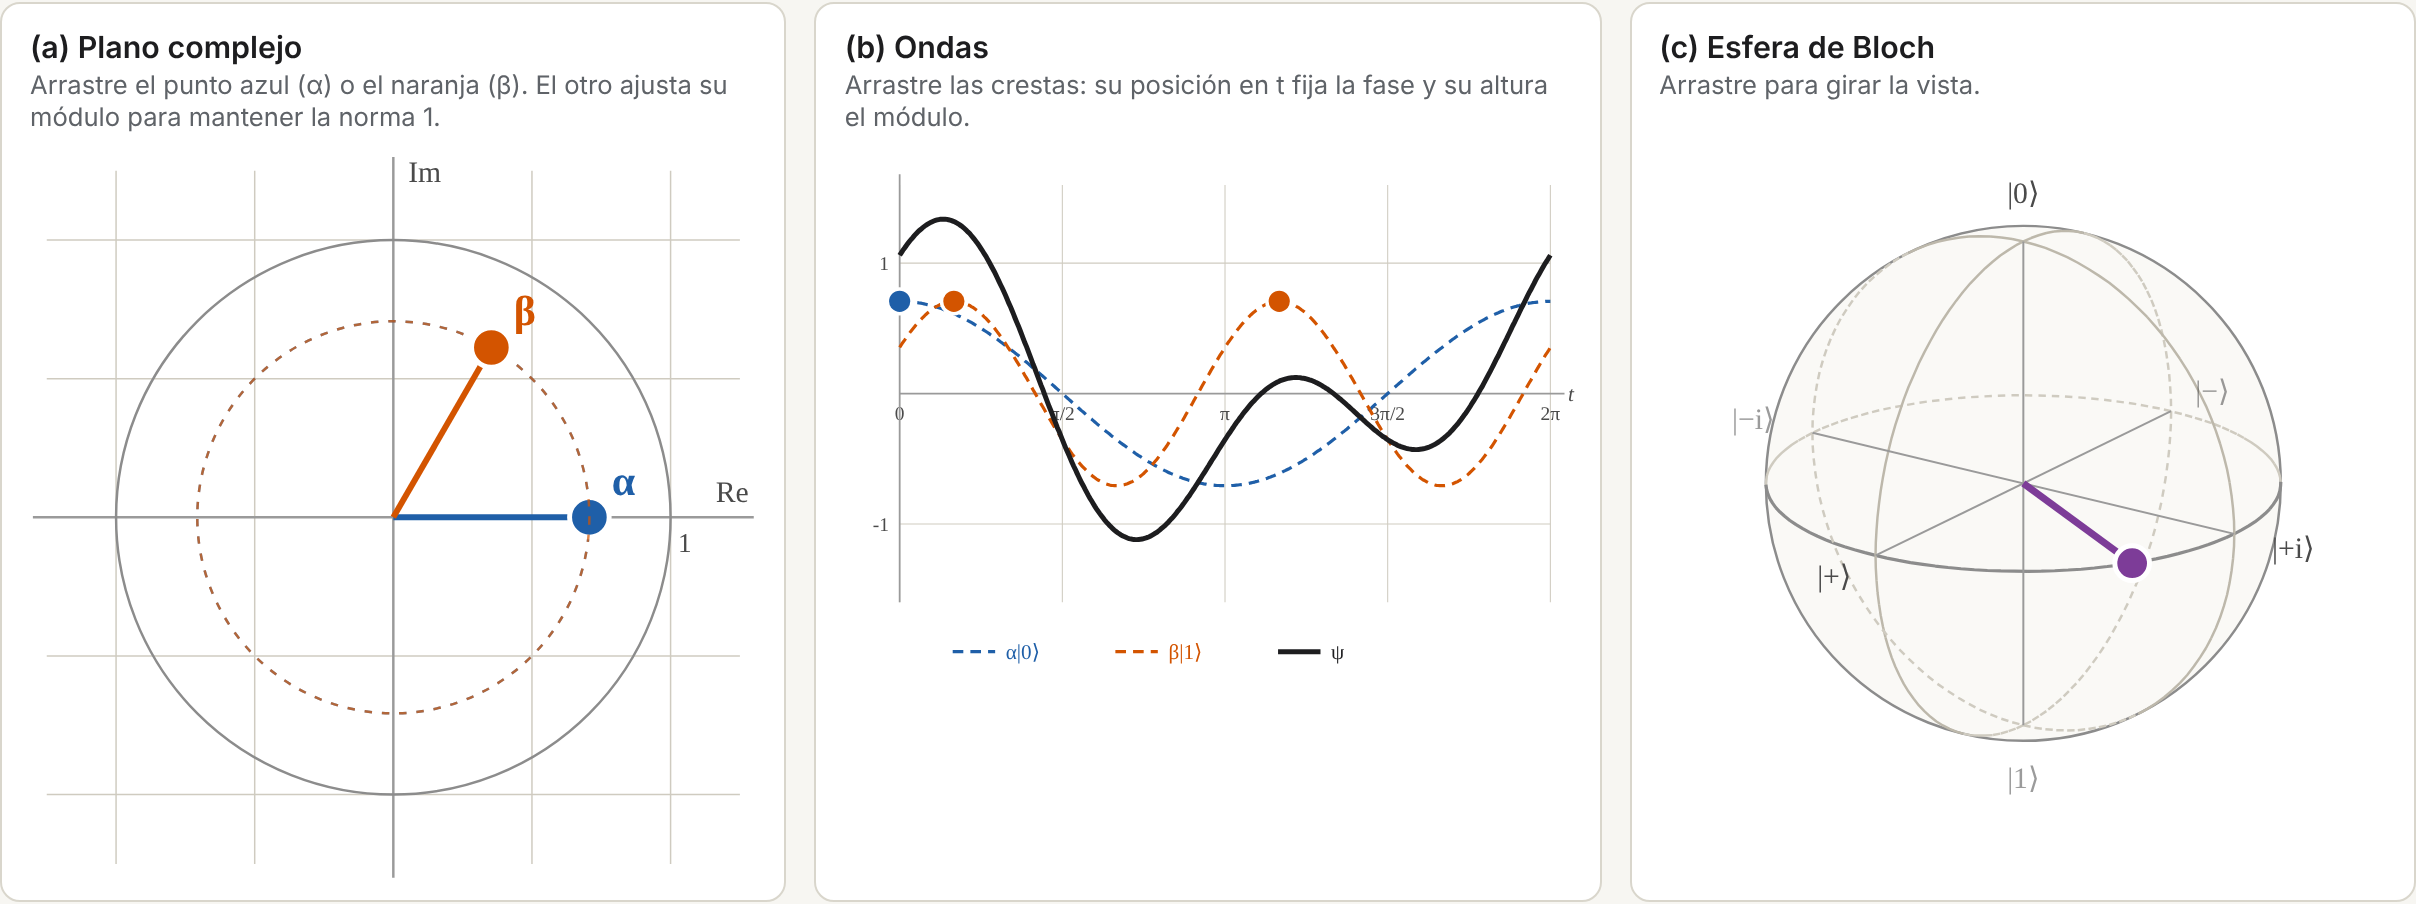
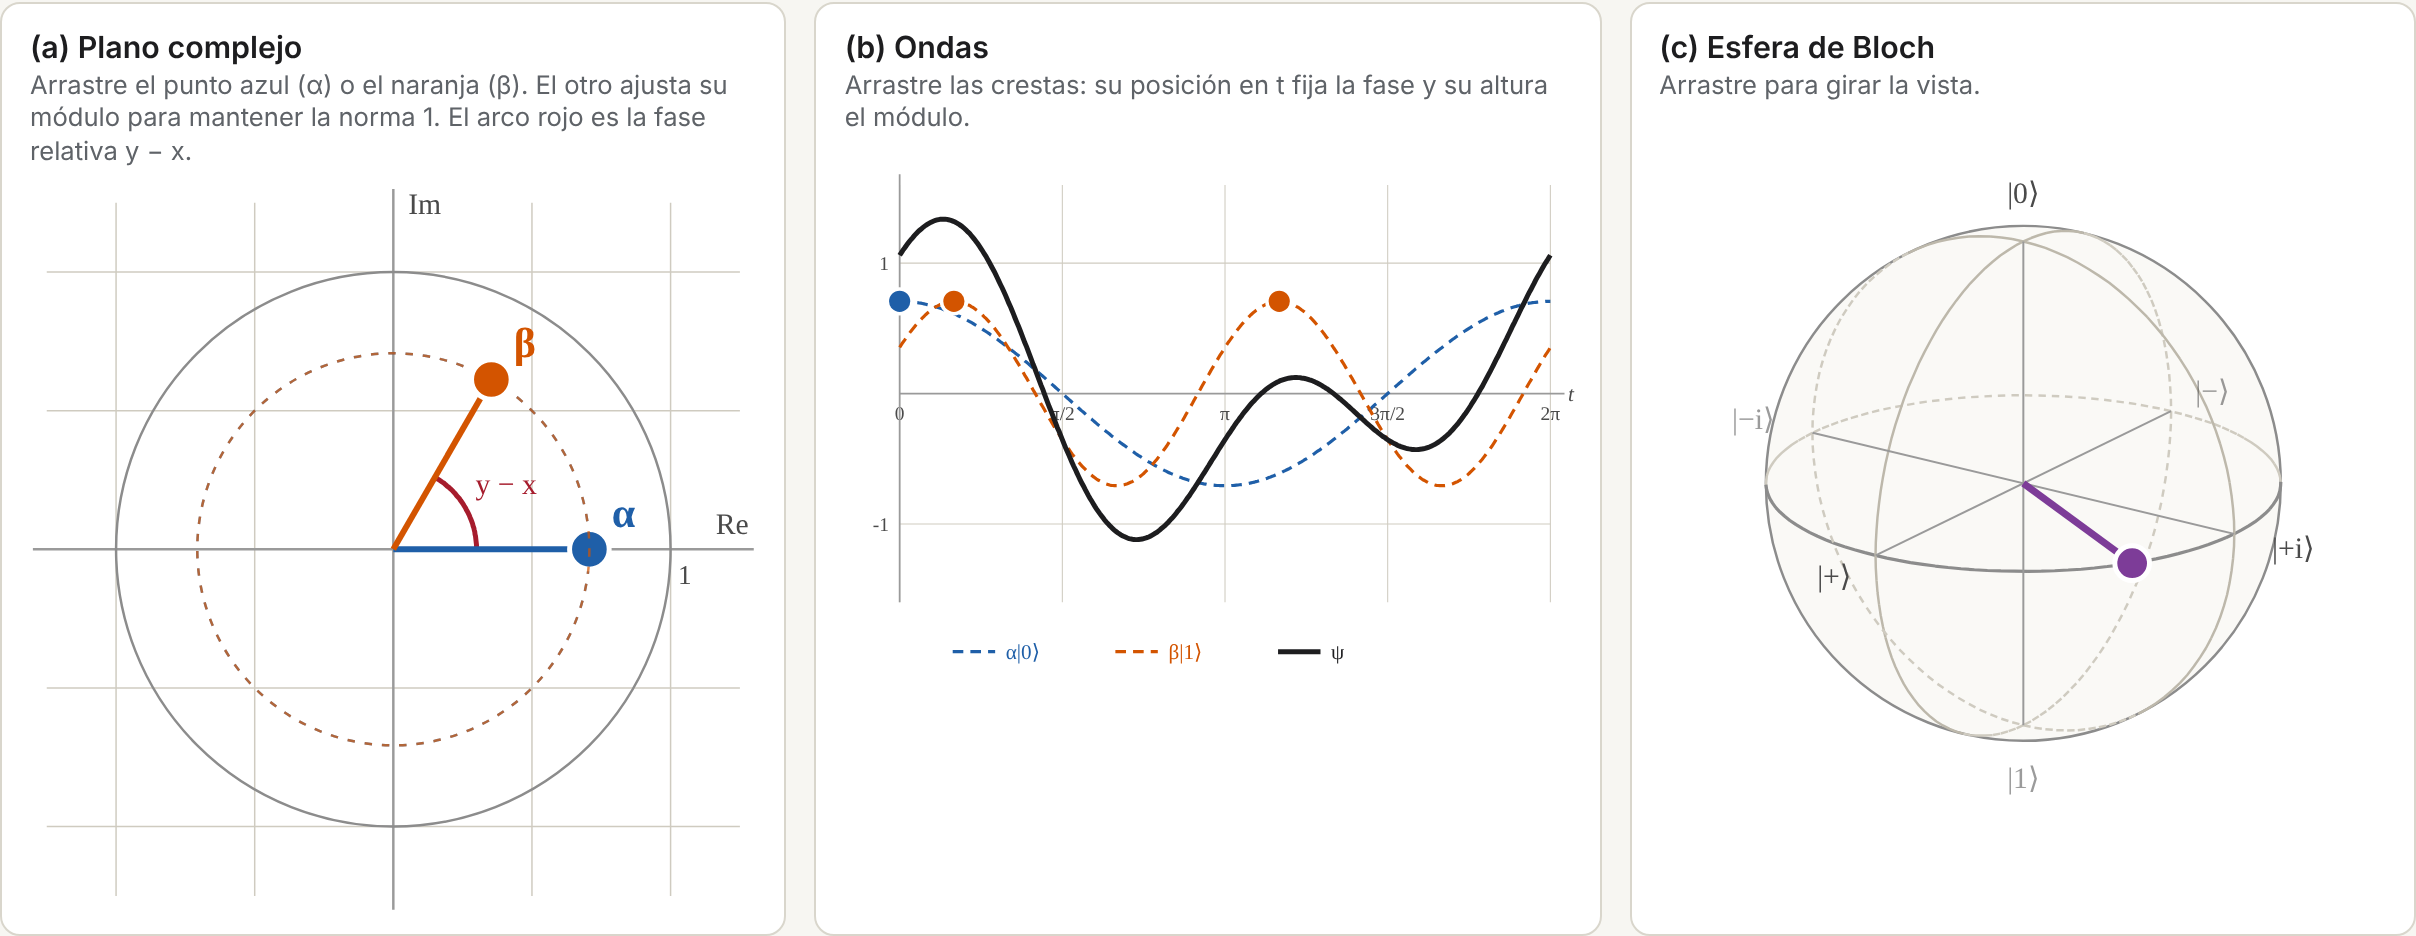
Actualizar widget y notebook a la notación A, x, B, y
- Coeficientes en forma polar alpha = A e^{ix}, beta = B e^{iy} (sin arg).
- Se quitan las integrales del paso (b)->(a); se usa la lectura de crestas.
- Explicación de fase global, fase relativa y de cos(theta/2) = A.
- Arco rojo con la fase relativa y - x en el panel (a).
- "Inclinación" en lugar de latitud/colatitud.
- Pruebas del notebook ajustadas a las nuevas fórmulas.

Claude-Session: https://claude.ai/code/session_01JyS3LXVzrQ5LC3wxCMvp1h

diff --git a/index.html b/index.html
@@ -68,7 +68,7 @@
     <button data-estado="+i">|+i⟩</button><button data-estado="-i">|−i⟩</button>
   </div>
   <div class="grupo">
-    <label for="gamma">Fase global γ = arg α:</label>
+    <label for="gamma">Fase global γ (gira α y β juntos; fija x = fase de α):</label>
     <input id="gamma" type="range" min="-180" max="180" step="1" value="0">
     <span id="gammaValor">0°</span>
   </div>
@@ -77,7 +77,7 @@
 <div class="paneles">
   <div class="panel">
     <h2>(a) Plano complejo</h2>
-    <p class="ayuda">Arrastre el punto azul (α) o el naranja (β). El otro ajusta su módulo para mantener la norma 1.</p>
+    <p class="ayuda">Arrastre el punto azul (α) o el naranja (β). El otro ajusta su módulo para mantener la norma 1. El arco rojo es la fase relativa y − x.</p>
     <svg id="svgA" viewBox="0 0 300 300" aria-label="Plano complejo con α y β"></svg>
   </div>
   <div class="panel">
@@ -97,47 +97,72 @@
 <section class="formulas">
   <h2>Fórmulas para pasar de un panel a otro</h2>
   <p>El desarrollo completo está en el taller; aquí se resumen las fórmulas que usa el widget.
-  En todas, $\alpha=|\alpha|e^{i\arg\alpha}$ y $\beta=|\beta|e^{i\arg\beta}$.</p>
+  El estado es $\ket\psi=\alpha\ket0+\beta\ket1$ con $|\alpha|^2+|\beta|^2=1$, y sus coeficientes
+  se escriben en forma polar con las mismas letras de la regla del enunciado:</p>
+  $$\alpha=Ae^{ix},\qquad \beta=Be^{iy},\qquad A,B\ge0,\qquad A^2+B^2=1 .$$
+  <p>$A$ y $B$ son los módulos (las probabilidades de medir $0$ y $1$ son $A^2$ y $B^2$), y $x$, $y$
+  son las fases.</p>
 
   <h3>(a) → (b): de los coeficientes a las ondas</h3>
-  <p>Por la regla de multiplicación, cada coeficiente desplaza y escala su onda:</p>
-  $$\alpha\ket0=|\alpha|\cos(t-\arg\alpha),\qquad \beta\ket1=|\beta|\cos(2t-\arg\beta),\qquad
-    \psi(t)=|\alpha|\cos(t-\arg\alpha)+|\beta|\cos(2t-\arg\beta).$$
-  <p>La cresta de $\alpha\ket0$ está en $t_\alpha=\arg\alpha$ y tiene altura $|\alpha|$; las de
-  $\beta\ket1$ están en $t_\beta=\tfrac12\arg\beta$ y en $t_\beta+\pi$, con altura $|\beta|$.</p>
+  <p>Se aplica la regla $(Ae^{ix})\cdot\cos nt=A\cos(nt-x)$ con $n=1$ y con $n=2$:</p>
+  $$\alpha\ket0=A\cos(t-x),\qquad \beta\ket1=B\cos(2t-y),\qquad
+    \psi(t)=A\cos(t-x)+B\cos(2t-y).$$
+  <p>El módulo es la altura de la onda y la fase indica cuánto se corre. La cresta de
+  $\alpha\ket0$ está en $t_\alpha\equiv x$, con altura $A$; las de $\beta\ket1$ están en
+  $t_\beta\equiv\tfrac y2$ y en $t_\beta+\pi$, con altura $B$ ($y$ se divide entre $2$ porque esa
+  onda oscila el doble de rápido).</p>
 
-  <h3>(b) → (a): de la onda a los coeficientes</h3>
-  <p>Los coeficientes son los productos hermíticos del punto 1.1 con $\ket0$ y $\ket1$:</p>
-  $$\alpha=\braket{0}{\psi}=\frac1\pi\int_0^{2\pi}\psi(t)\,e^{it}\,dt,\qquad
-    \beta=\braket{1}{\psi}=\frac1\pi\int_0^{2\pi}\psi(t)\,e^{2it}\,dt .$$
-  <p>Leídos en las crestas: $|\alpha|$ y $|\beta|$ son las alturas, $\arg\alpha=t_\alpha$ y
-  $\arg\beta=2t_\beta$.</p>
+  <h3>(b) → (a): de las ondas a los coeficientes</h3>
+  <p>Se leen las crestas, invirtiendo lo anterior:</p>
+  $$A=\text{altura de }\alpha\ket0,\quad x\equiv t_\alpha,\qquad
+    B=\text{altura de }\beta\ket1,\quad y\equiv 2t_\beta .$$
+
+  <h3>Fase global y fase relativa</h3>
+  <p>Multiplicar un número complejo por $e^{i\gamma}$ lo gira un ángulo $\gamma$ alrededor del
+  origen sin cambiar su módulo. Una <b>fase global</b> multiplica los dos coeficientes por el
+  mismo $e^{i\gamma}$: en el panel (a), $\alpha$ y $\beta$ giran juntos, como si estuvieran
+  pegados (pruébelo con el deslizador). $A$ y $B$ no cambian, y ninguna medición distingue
+  $\ket\psi$ de $e^{i\gamma}\ket\psi$, así que se consideran el mismo estado. Lo que se conserva al
+  girar los dos juntos es el ángulo entre ellos, la <b>fase relativa</b> $y-x$ (el arco rojo del
+  panel (a)); esa sí cambia el estado. Por ejemplo, $\ket+=\tfrac1{\sqrt2}(\ket0+\ket1)$ y
+  $\ket-=\tfrac1{\sqrt2}(\ket0-\ket1)$ tienen los mismos módulos, pero fases relativas $0$ y $\pi$,
+  y son ortogonales.</p>
 
   <h3>(a) → (c): de los coeficientes a la esfera</h3>
-  $$\cos\tfrac\theta2=|\alpha|,\quad \sin\tfrac\theta2=|\beta|,\quad \varphi=\arg\beta-\arg\alpha,$$
+  <p>Al sacar la fase global $e^{ix}$, el estado queda como $A\ket0+Be^{i(y-x)}\ket1$, y la
+  longitud en la esfera es la fase relativa, $\varphi\equiv y-x$. Para la inclinación $\theta$ (el
+  ángulo desde el polo norte): como $A^2+B^2=1$, el punto $(A,B)$ está en un cuarto de
+  circunferencia y se escribe $A=\cos\omega$, $B=\sin\omega$ con $\omega\in[0,\tfrac\pi2]$. En la
+  esfera, $\ket0$ (polo norte) y $\ket1$ (polo sur) están separados un ángulo $\pi$, el doble, así
+  que $\theta=2\omega$:</p>
+  $$\cos\tfrac\theta2=A,\qquad \sin\tfrac\theta2=B,\qquad \varphi\equiv y-x,$$
   $$\vec r=(\sin\theta\cos\varphi,\ \sin\theta\sin\varphi,\ \cos\theta)
-    =\bigl(2\operatorname{Re}(\overline\alpha\beta),\ 2\operatorname{Im}(\overline\alpha\beta),\ |\alpha|^2-|\beta|^2\bigr).$$
-  <p>Si $\alpha=0$ o $\beta=0$ el estado está en un polo y $\varphi$ no interviene.</p>
+    =\bigl(2\operatorname{Re}(\overline\alpha\beta),\ 2\operatorname{Im}(\overline\alpha\beta),\ A^2-B^2\bigr).$$
+  <p>La altura del punto, $\cos\theta=A^2-B^2$, es la probabilidad de $0$ menos la de $1$. Si
+  $A=0$ o $B=0$ el estado está en un polo y $\varphi$ no interviene.</p>
 
   <h3>(c) → (a): de la esfera a los coeficientes</h3>
   $$\alpha=e^{i\gamma}\cos\tfrac\theta2,\qquad \beta=e^{i(\gamma+\varphi)}\sin\tfrac\theta2,$$
-  <p>donde la fase global $\gamma$ es libre: la esfera no la registra.</p>
+  <p>es decir, $A=\cos\tfrac\theta2$, $x=\gamma$, $B=\sin\tfrac\theta2$, $y=\gamma+\varphi$, donde
+  la fase global $\gamma$ es libre: la esfera no la registra.</p>
 
-  <h3>(b) → (c): de la onda a la esfera</h3>
-  $$\cos\theta=|\alpha|^2-|\beta|^2=(\text{altura de }\alpha\ket0)^2-(\text{altura de }\beta\ket1)^2,
+  <h3>(b) → (c): de las ondas a la esfera</h3>
+  <p>Con $A$, $B$ como alturas, $x\equiv t_\alpha$ y $y\equiv 2t_\beta$:</p>
+  $$\cos\theta=(\text{altura de }\alpha\ket0)^2-(\text{altura de }\beta\ket1)^2,
     \qquad \varphi\equiv 2t_\beta-t_\alpha \pmod{2\pi}.$$
-  <p>La latitud mide cómo se reparte la norma entre las frecuencias $1$ y $2$; la longitud mide el
-  desfase entre las crestas, contado en la escala de la frecuencia $2$.</p>
+  <p>La inclinación depende solo de las alturas; la longitud mide el desfase entre las crestas,
+  contado en la escala de la frecuencia $2$.</p>
 
   <h3>(c) → (b): de la esfera a la onda</h3>
   $$\psi(t)=\cos\tfrac\theta2\,\cos(t-\gamma)+\sin\tfrac\theta2\,\cos(2t-\gamma-\varphi).$$
 
   <h3>Fase global y desplazamientos en el tiempo</h3>
-  <p>Multiplicar el estado por $e^{i\gamma}$ corre la onda $\alpha\ket0$ una distancia $\gamma$ y
-  la onda $\beta\ket1$ solo $\gamma/2$, de modo que $\psi$ cambia de forma, pero el punto de Bloch
-  no se mueve. En cambio, desplazar $\psi$ en el tiempo una cantidad $\tau$ multiplica $\alpha$ por
-  $e^{i\tau}$ y $\beta$ por $e^{2i\tau}$; esto suma $\tau$ a $\varphi$ y hace girar el punto de
-  Bloch alrededor del eje $z$.</p>
+  <p>Cambiar la fase global $\gamma$ corre la onda $\alpha\ket0$ una distancia $\gamma$ y la onda
+  $\beta\ket1$ solo $\gamma/2$, de modo que $\psi$ cambia de forma, pero el punto de Bloch no se
+  mueve. En cambio, desplazar $\psi$ en el tiempo una cantidad $\tau$ multiplica $\alpha$ por
+  $e^{i\tau}$ y $\beta$ por $e^{2i\tau}$ (no es una fase global, porque los factores son
+  distintos); la fase relativa pasa de $y-x$ a $y-x+\tau$ y el punto de Bloch gira alrededor del
+  eje $z$.</p>
 </section>
 
 <footer>
@@ -157,8 +182,8 @@ const S2 = Math.SQRT1_2;
 const COL = {a: "#1F5FA8", b: "#D35400", psi: "#1d1d1f", p: "#7D3C98",
              eje: "#9a9a9a", tenue: "#cfcbc0", texto: "#4a4a4a"};
 
-// El estado se guarda como módulos y fases por separado, para no perder la
-// fase de un coeficiente cuando su módulo vale 0.
+// El estado se guarda como α = A e^{ix}, β = B e^{iy}: ra = A, pa = x, rb = B, pb = y.
+// Módulos y fases van por separado para no perder la fase cuando un módulo vale 0.
 const st = {ra: S2, pa: 0, rb: S2, pb: Math.PI / 3};
 
 function envolver(p) {               // lleva un ángulo a (-π, π]
@@ -182,20 +207,13 @@ function ondas(t) {
   const g = st.rb * Math.cos(2 * t - st.pb);
   return [f, g, f + g];
 }
-// (b)→(a): α = (1/π)∫ψ e^{it} dt, β = (1/π)∫ψ e^{2it} dt (suma de Riemann)
-function coeficientes(N = 2000) {
-  const dt = TAU / N;
-  let ar = 0, ai = 0, br = 0, bi = 0, n2 = 0;
-  for (let k = 0; k < N; k++) {
-    const t = k * dt, v = ondas(t)[2];
-    ar += v * Math.cos(t); ai += v * Math.sin(t);
-    br += v * Math.cos(2 * t); bi += v * Math.sin(2 * t);
-    n2 += v * v;
-  }
-  const c = dt / Math.PI;
-  return {alpha: [ar * c, ai * c], beta: [br * c, bi * c], norma2: n2 * c};
+// (b)→(a): crestas. α|0⟩ tiene su cresta en t_α ≡ x; β|1⟩ en t_β ≡ y/2 y en t_β + π
+function crestas() {
+  const ta = ((st.pa % TAU) + TAU) % TAU;
+  const tb = ((st.pb / 2 % Math.PI) + Math.PI) % Math.PI;
+  return {a: [[ta, st.ra]], b: [[tb, st.rb], [tb + Math.PI, st.rb]]};
 }
-// (a)→(c): θ, φ y r = (sinθ cosφ, sinθ sinφ, cosθ)
+// (a)→(c): cos(θ/2) = A, sin(θ/2) = B, φ ≡ y − x, y r = (sinθ cosφ, sinθ sinφ, cosθ)
 function bloch() {
   const theta = 2 * Math.atan2(st.rb, st.ra);
   const phi = envolver(st.pb - st.pa);
@@ -255,6 +273,9 @@ const aX = x => A.c + A.s * x, aY = y => A.c - A.s * y;
   el(svgA, "text", {x: aX(0) + 6, y: aY(1.3) + 10, "font-size": 12, fill: COL.texto}, "Im");
   el(svgA, "text", {x: aX(1) + 3, y: aY(0) + 14, "font-size": 11, fill: COL.texto}, "1");
 })();
+// arco de la fase relativa y − x (de la dirección de α a la de β)
+const arcoRel = el(svgA, "path", {fill: "none", stroke: "#A61C2D", "stroke-width": 2});
+const lblRel = el(svgA, "text", {"font-size": 12, fill: "#A61C2D", "text-anchor": "middle"}, "y − x");
 const objA = {};
 for (const [k, col, nombre] of [["a", COL.a, "α"], ["b", COL.b, "β"]]) {
   objA[k] = {
@@ -317,11 +338,6 @@ const objB = {
   cb1: el(svgB, "circle", {r: 7, fill: COL.b, stroke: "#fff", "stroke-width": 2, class: "arrastrable"}),
   cb2: el(svgB, "circle", {r: 7, fill: COL.b, stroke: "#fff", "stroke-width": 2, class: "arrastrable"}),
 };
-function crestas() {
-  const ta = ((st.pa % TAU) + TAU) % TAU;
-  const tb = ((st.pb / 2 % Math.PI) + Math.PI) % Math.PI;
-  return {a: [[ta, st.ra]], b: [[tb, st.rb], [tb + Math.PI, st.rb]]};
-}
 arrastre(svgB,
   ev => {
     let mejor = null, dmin = 22;
@@ -432,6 +448,21 @@ function actualizar(sincronizarGamma = true) {
     o.lbl.setAttribute("x", aX(z[0]) + 9); o.lbl.setAttribute("y", aY(z[1]) - 9);
   }
 
+  // arco de la fase relativa, de radio fijo, recorrido desde la dirección de α
+  {
+    const rel = envolver(st.pb - st.pa), R = 0.3, n = 40;
+    let d = "";
+    for (let k = 0; k <= n; k++) {
+      const ang = st.pa + rel * k / n;
+      d += `${k ? "L" : "M"}${aX(R * Math.cos(ang)).toFixed(1)} ${aY(R * Math.sin(ang)).toFixed(1)}`;
+    }
+    const visible = st.ra > 1e-3 && st.rb > 1e-3 && Math.abs(rel) > 1e-3;
+    arcoRel.setAttribute("d", visible ? d : "");
+    const mid = st.pa + rel / 2;
+    lblRel.setAttribute("x", aX(0.47 * Math.cos(mid))); lblRel.setAttribute("y", aY(0.47 * Math.sin(mid)) + 4);
+    lblRel.setAttribute("opacity", visible ? 1 : 0);
+  }
+
   // (b)
   let da = "", db = "", dp = "";
   for (let k = 0; k <= 400; k++) {
@@ -461,13 +492,12 @@ function actualizar(sincronizarGamma = true) {
   gammaValor.textContent = Math.round(st.pa * 180 / Math.PI) + "°";
 
   // lectura numérica
-  const num = coeficientes();
   const ta = cr.a[0][0], tb = cr.b[0][0];
   document.getElementById("lectura").innerHTML = `
-    <div><b style="color:${COL.a}">α</b> = ${cplx(a)}<br>|α| = ${st.ra.toFixed(3)}, arg α = ${grados(st.pa)}<br>P(0) = |α|² = ${(st.ra ** 2).toFixed(3)}</div>
-    <div><b style="color:${COL.b}">β</b> = ${cplx(b)}<br>|β| = ${st.rb.toFixed(3)}, arg β = ${grados(st.pb)}<br>P(1) = |β|² = ${(st.rb ** 2).toFixed(3)}</div>
-    <div><b>Onda → coeficientes</b> (Riemann, N = 2000)<br>(1/π)∫ψ e<sup>it</sup> dt = ${cplx(num.alpha)}<br>(1/π)∫ψ e<sup>2it</sup> dt = ${cplx(num.beta)}<br>(1/π)∫ψ² dt = ${num.norma2.toFixed(3)}</div>
-    <div><b style="color:${COL.p}">Bloch</b><br>θ = ${grados(theta)}, φ = ${grados(phi)}<br>crestas: t<sub>α</sub> = ${grados(ta)}, t<sub>β</sub> = ${grados(tb)}<br>r = (${r.map(v => (v >= 0 ? "+" : "−") + Math.abs(v).toFixed(3)).join(", ")})</div>`;
+    <div><b style="color:${COL.a}">α = A e<sup>ix</sup></b> = ${cplx(a)}<br>A = ${st.ra.toFixed(3)}, x = ${grados(st.pa)}<br>P(0) = A² = ${(st.ra ** 2).toFixed(3)}</div>
+    <div><b style="color:${COL.b}">β = B e<sup>iy</sup></b> = ${cplx(b)}<br>B = ${st.rb.toFixed(3)}, y = ${grados(st.pb)}<br>P(1) = B² = ${(st.rb ** 2).toFixed(3)}</div>
+    <div><b>Crestas y fase relativa</b><br>t<sub>α</sub> = ${grados(ta)} (≡ x)<br>t<sub>β</sub> = ${grados(tb)} (≡ y/2)<br><span style="color:#A61C2D">y − x</span> = ${grados(envolver(st.pb - st.pa))}<br>2t<sub>β</sub> − t<sub>α</sub> ≡ ${grados(envolver(2 * tb - ta))}</div>
+    <div><b style="color:${COL.p}">Bloch</b><br>θ = ${grados(theta)}: cos(θ/2) = ${Math.cos(theta / 2).toFixed(3)} = A<br>φ = ${grados(phi)} (= y − x)<br>r = (${r.map(v => (v >= 0 ? "+" : "−") + Math.abs(v).toFixed(3)).join(", ")})</div>`;
 }
 
 // enlace al repositorio a partir de la URL de GitHub Pages (usuario.github.io/repo)
